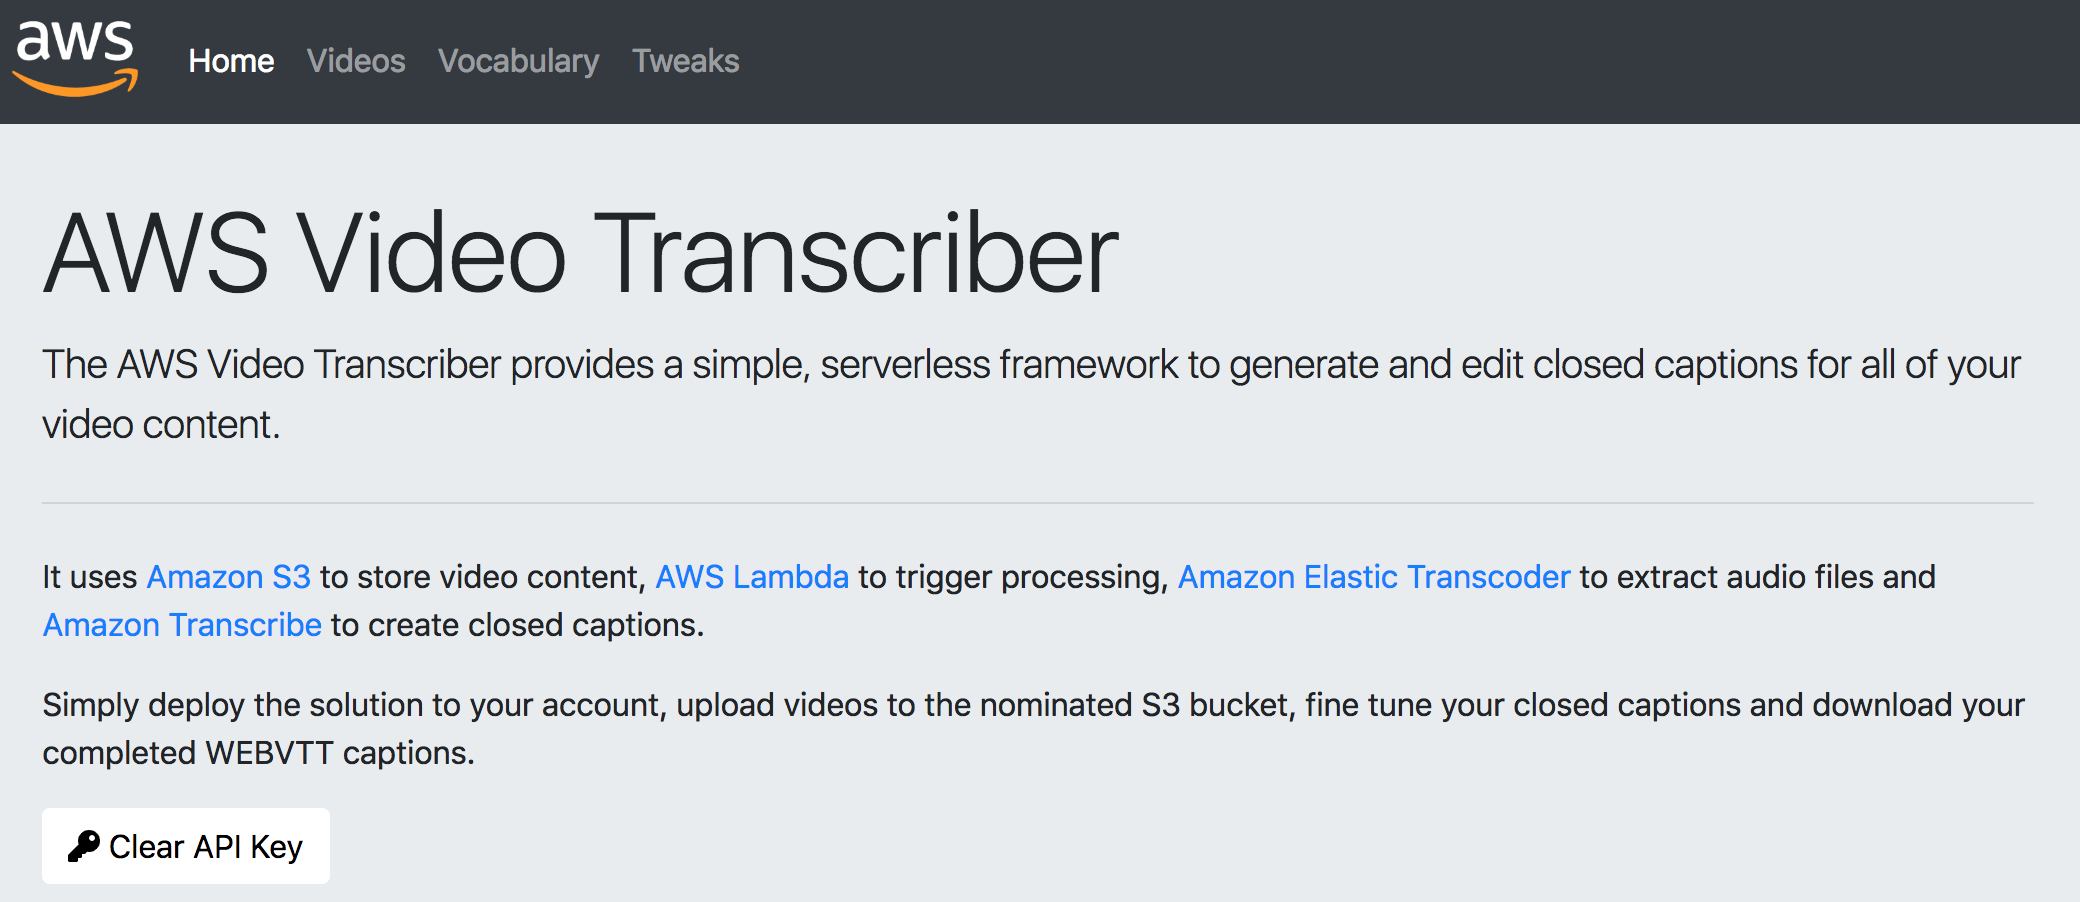
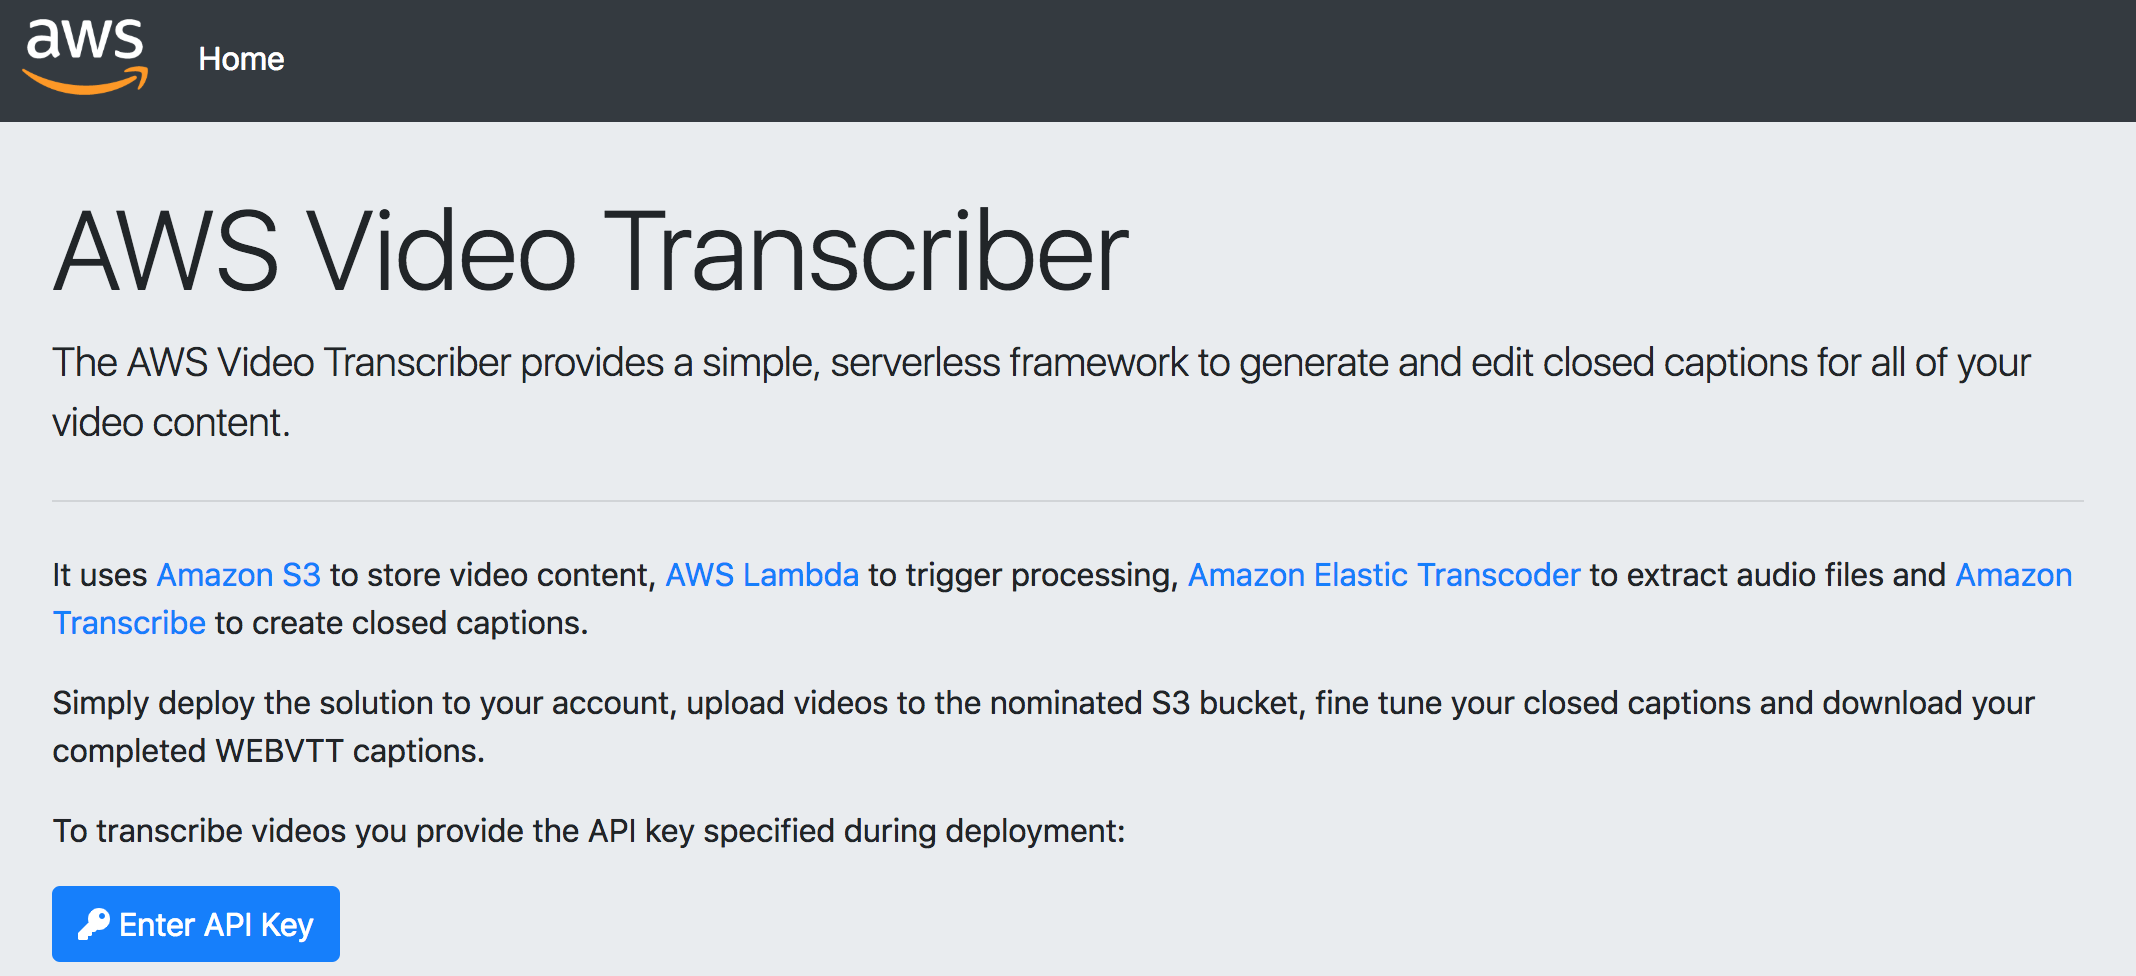
Tweaks to README and some new screenshots

diff --git a/README.md b/README.md
@@ -33,7 +33,7 @@ When launching the template, you will need to enter a stack name and an API key.
 
 ### One click deployment
 
-| Region | Region Id | Deploy now |
+| AWS Region Name | AWS Region Id | Deploy Solution |
 | ---- | ----  | ---- |
 | US East (N. Virginia) | us-east-1 | [![Launch Stack](web/img/launch-stack.svg)](https://us-east-1.console.aws.amazon.com/cloudformation/home#/stacks/new?region=us-east-1&stackName=&templateURL=https://s3.us-east-1.amazonaws.com/aws-captions-deployment-us-east-1/cloudformation/aws-video-transcriber-cloudformation.json) |
 | US West (N. California) | us-west-1 | [![Launch Stack](web/img/launch-stack.svg)](https://us-west-1.console.aws.amazon.com/cloudformation/home#/stacks/new?region=us-west-1&stackName=&templateURL=https://s3.us-west-1.amazonaws.com/aws-captions-deployment-us-west-1/cloudformation/aws-video-transcriber-cloudformation.json) |
@@ -45,27 +45,21 @@ When launching the template, you will need to enter a stack name and an API key.
 
 [![Home page and API Key](manual/img/StackParameters.png)](manual/img/StackParameters.png)
 
-### Accessing parameters after deployment
-
-After launching the parameters will also provide the link to access the deployed website and the API key you entered above.
-
 ### Deploying to multiple regions
 
 IAM roles and policies are global and are prefixed with the stack name, if you get conflicts, simply use a different stack name in each deployed region.
 
 ## Removing the Solution
 
-To remove the solution delete the CloudFormation stack. Note that deletion will fail if you have not emptied to video, audio and transcribe buckets.
+To remove the solution delete the CloudFormation stack. Note that deletion will fail if you have not emptied the video, audio and transcribe buckets created as part of the stack.
 
-*NOTE: after remove the stack occasionally the CloudWatch log for the Lambda custom resource is left behind and must be manually removed before deploying again.*
+*NOTE: after remove the stack occasionally the CloudWatch log group for the Lambda custom resource is left behind and must be manually removed before redeploying.*
 
 ## Solution Pricing
 
-You are responsible for the cost of the AWS services used while running the video transcription solution. As of the date of publication, the cost for running this solution in the US East (N.
-Virginia) Region is shown in the table below. 
+You are responsible for the cost of the AWS services used while running the video transcription solution. As of the date of publication, the costs for running this solution in the US East (N. Virginia) Region are shown in the table below. 
 
-The cost depends on the number of length of uploaded videos, and does not include data transfer fees, which will vary
-depending on the number of users and frequency of viewing.
+The cost depends on the number of and length of uploaded videos, and does not include data transfer fees, which will vary depending on the number of users and frequency of viewing.
 
 You will also be charged for stored video and audio files in S3.
 		
@@ -84,37 +78,38 @@ Transcribe costs:
 Amazon S3 Storage costs:
 
 	$0.023 per GB per month
-	
+
+Pricing is quoted per minute but Amazon Transcribe charges per second. Prices are subject to change. For full details, see the pricing webpage for each AWS service for the region you deploy the solution to.
+
 [Amazon Transcribe Pricing](https://aws.amazon.com/transcribe/pricing/)
 
 [Amazon Elastic Transcoder Pricing](https://aws.amazon.com/elastictranscoder/pricing/)
 
 [Amazon S3 Pricing](https://aws.amazon.com/s3/pricing/)
 
-Pricing is quoted per minute but Amazon Transcribe charges per second. Prices are subject to
-change. For full details, see the pricing webpage for each AWS service for the region you deploy the solution to.
-
 ## Launching the Website
 
-Once you have deployed your stack the link to your new site is displayed in the *CloudFormation Outputs tab* along with your API Key.
+Once you have deployed your stack the link to your new site is displayed in the *CloudFormation Outputs tab* along with your API Key. Click the *Website* link to access the site.
 
 [![CloudFormation outputs](manual/img/CloudFormationParameters.png)](manual/img/CloudFormationParameters.png)
 
 ## Entering your API key
 
-On the home page there is a button for entering your API key, locate your API key using the parameters tab of the CloudFormation service after deployment.
+On the home page there a *Enter API Key* button used for entering your API key, locate your API key using the Outputs tab of the CloudFormation service after deployment and add it in to enable the other solution pages.
 
 [![Home page and API Key](manual/img/HomePage.png)](manual/img/HomePage.png)
 	
 ## Creating a Vocabulary
 
-After deployment log into your site, click on the Vocabulary tab and create a custom vocabulary with at least one term. You might consider using:
+After deployment and before uploading videos, log into your site, click on the Vocabulary tab and create a custom vocabulary with at least one term. You might consider using:
 
 	A.W.S.
 	
 You can enter up to 50kb of custom vocacaulary terms, if you get a failure to save please read the [Amazon Transcribe formatting guide for custom vocabularies](https://github.com/awsdocs/amazon-transcribe-developer-guide/blob/master/doc_source/custom-vocabulary-files.md).
 	
 [![Vocabulary page](manual/img/VocabularyPage.png)](manual/img/VocabularyPage.png)
+
+You can add common terms for your business here such as brand names and industry specific terms to guide Transcribe in providing the best automated result.
 	
 ## Creating Tweaks
 
@@ -134,9 +129,9 @@ The Videos page shows the current videos in the system and organsises them in ta
 
 ## Uploading Videos
 
-You cna upload videos from any browser and launching the site on mobile allows users to capture and upload videos directly from a mobile phone.
+You can upload videos from any browser and launching the site on mobile allows users to capture and upload videos directly from a mobile phone.
 
-Click on the *Upload Videos...* button to start the process.
+Click on the *Upload Videos...* button to start the video upload process.
 
 ## Editing Captions
 
